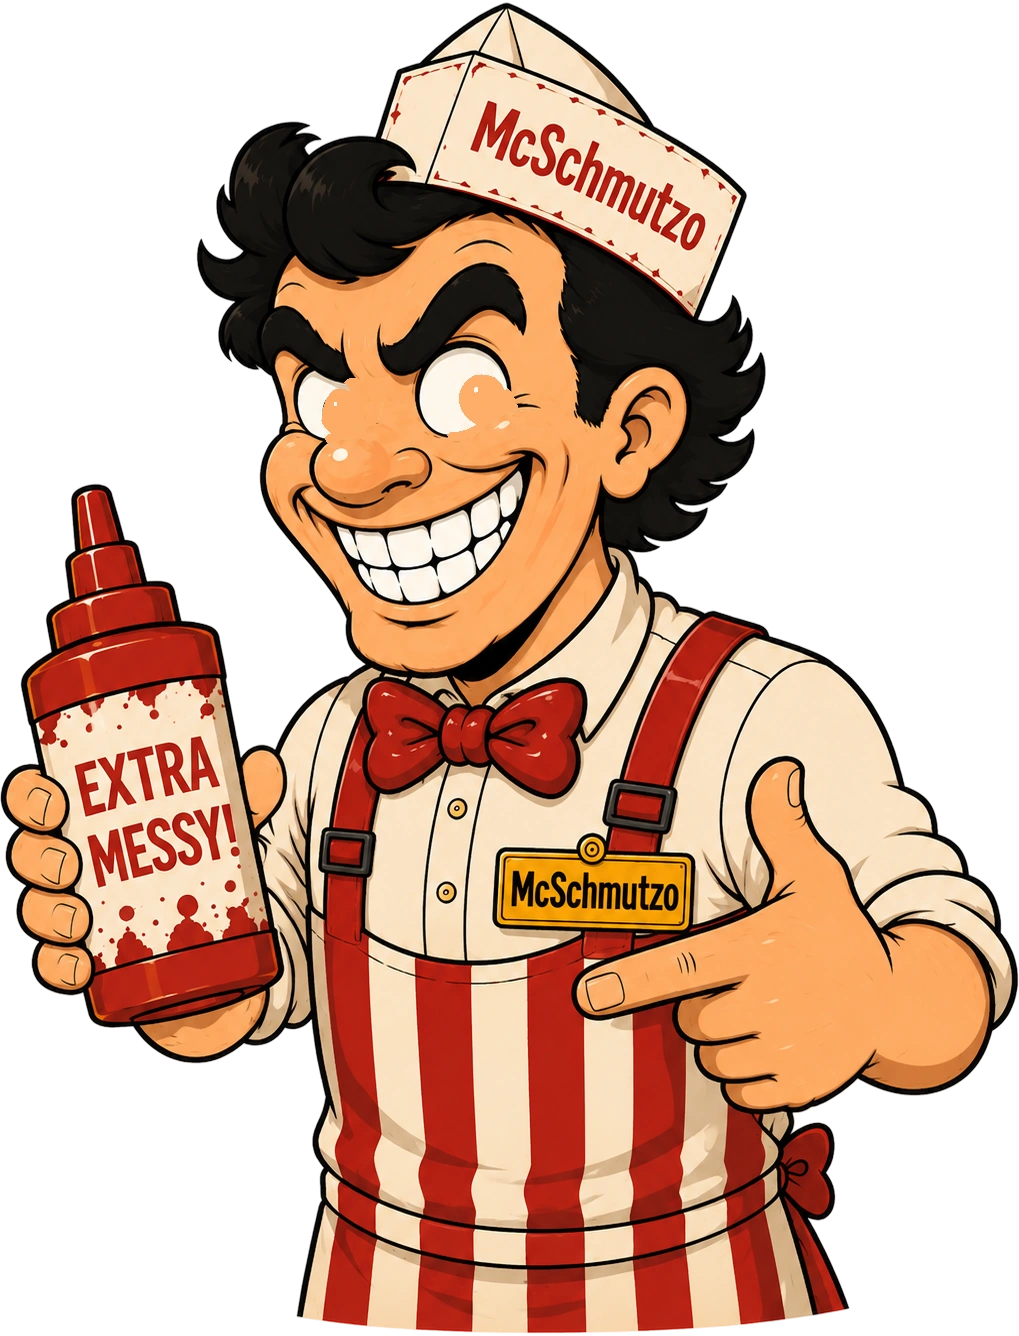
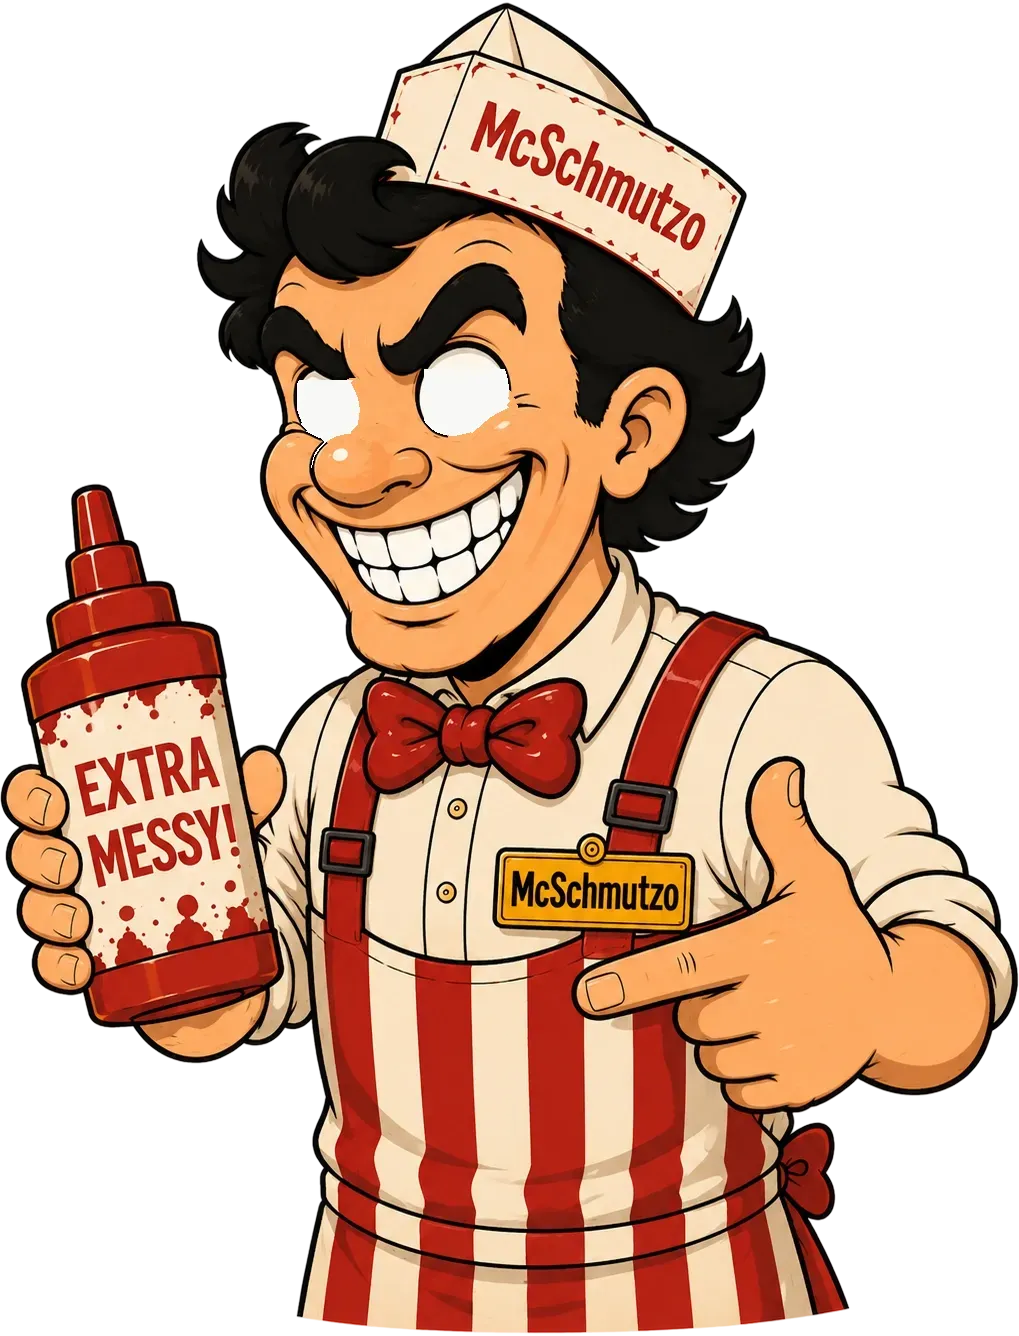
fix(mcschmutzo): base chef — fill eye whites solid so pupils never reveal skin
mascot_base's sclera fill was incomplete: skin-coloured patches remained inside
the eye whites where the pupils were cut, so the moving disc pupil exposed skin
('only the black breaks it'). Re-fill both eye interiors solid white (using the
original eye almond shape from mascot.png, keeping the dark rim) and nudge the
pupils to a balanced low position on the now-clean sclera. Verified: glance
reveals only white, blink intact.

Changed region(s): [[0.4868, 0.6138, 0.6997, 0.7058], [0.4259, 0.2762, 0.5172, 0.3376], [0.3042, 0.2762, 0.3651, 0.3376]]

diff --git a/apps/mcschmutzo/src/components/Background.svelte b/apps/mcschmutzo/src/components/Background.svelte
@@ -56,11 +56,12 @@
 	);
 	// Pupils (measured from the cut art) + eye-cover boxes for the blink lid; all fractions of the
 	// figure. Skin tone sampled by the eyes so the lid is invisible where it overshoots onto skin.
-	// ny nudged down from the measured centre so the pupils sit LOW in the sclera (less white showing
-	// underneath — they were reading a touch too high).
+	// Pupils sit low-ish in the (now fully-filled white) sclera for a natural forward gaze. The eye
+	// whites in mascot_base were re-filled solid white — they had skin showing where the pupils were
+	// cut, so the moving disc used to reveal skin.
 	const mascotPupils = [
-		{ key: 'mascotPupilL', nx: 0.3415, ny: 0.3155, nw: 0.0491, nh: 0.0479 },
-		{ key: 'mascotPupilR', nx: 0.473, ny: 0.3125, nw: 0.0687, nh: 0.0449 },
+		{ key: 'mascotPupilL', nx: 0.3415, ny: 0.311, nw: 0.0491, nh: 0.0479 },
+		{ key: 'mascotPupilR', nx: 0.473, ny: 0.308, nw: 0.0687, nh: 0.0449 },
 	];
 	const mascotLids = [
 		{ cx: 0.329, cy: 0.305, w: 0.084, h: 0.08 },
